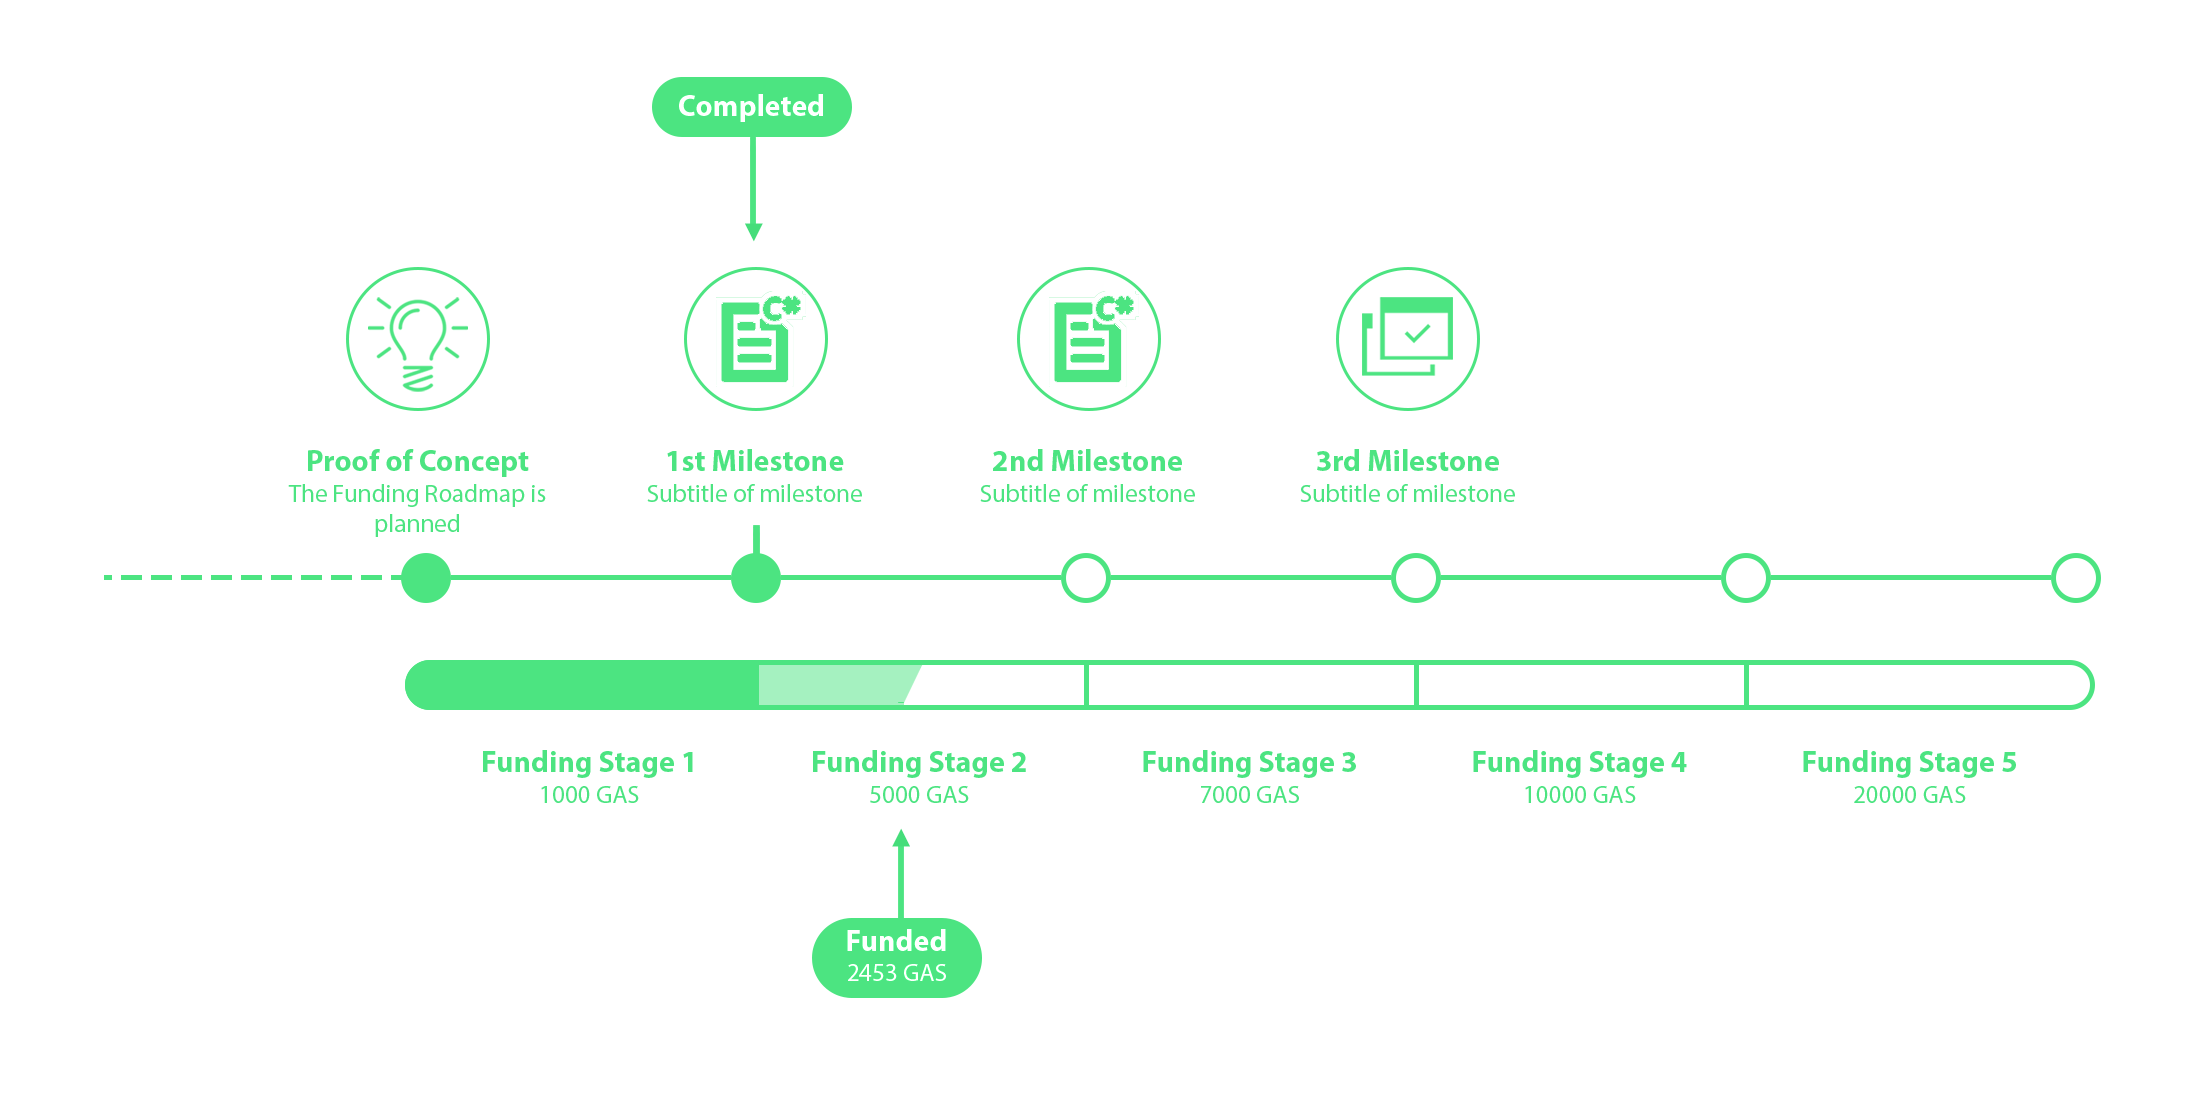
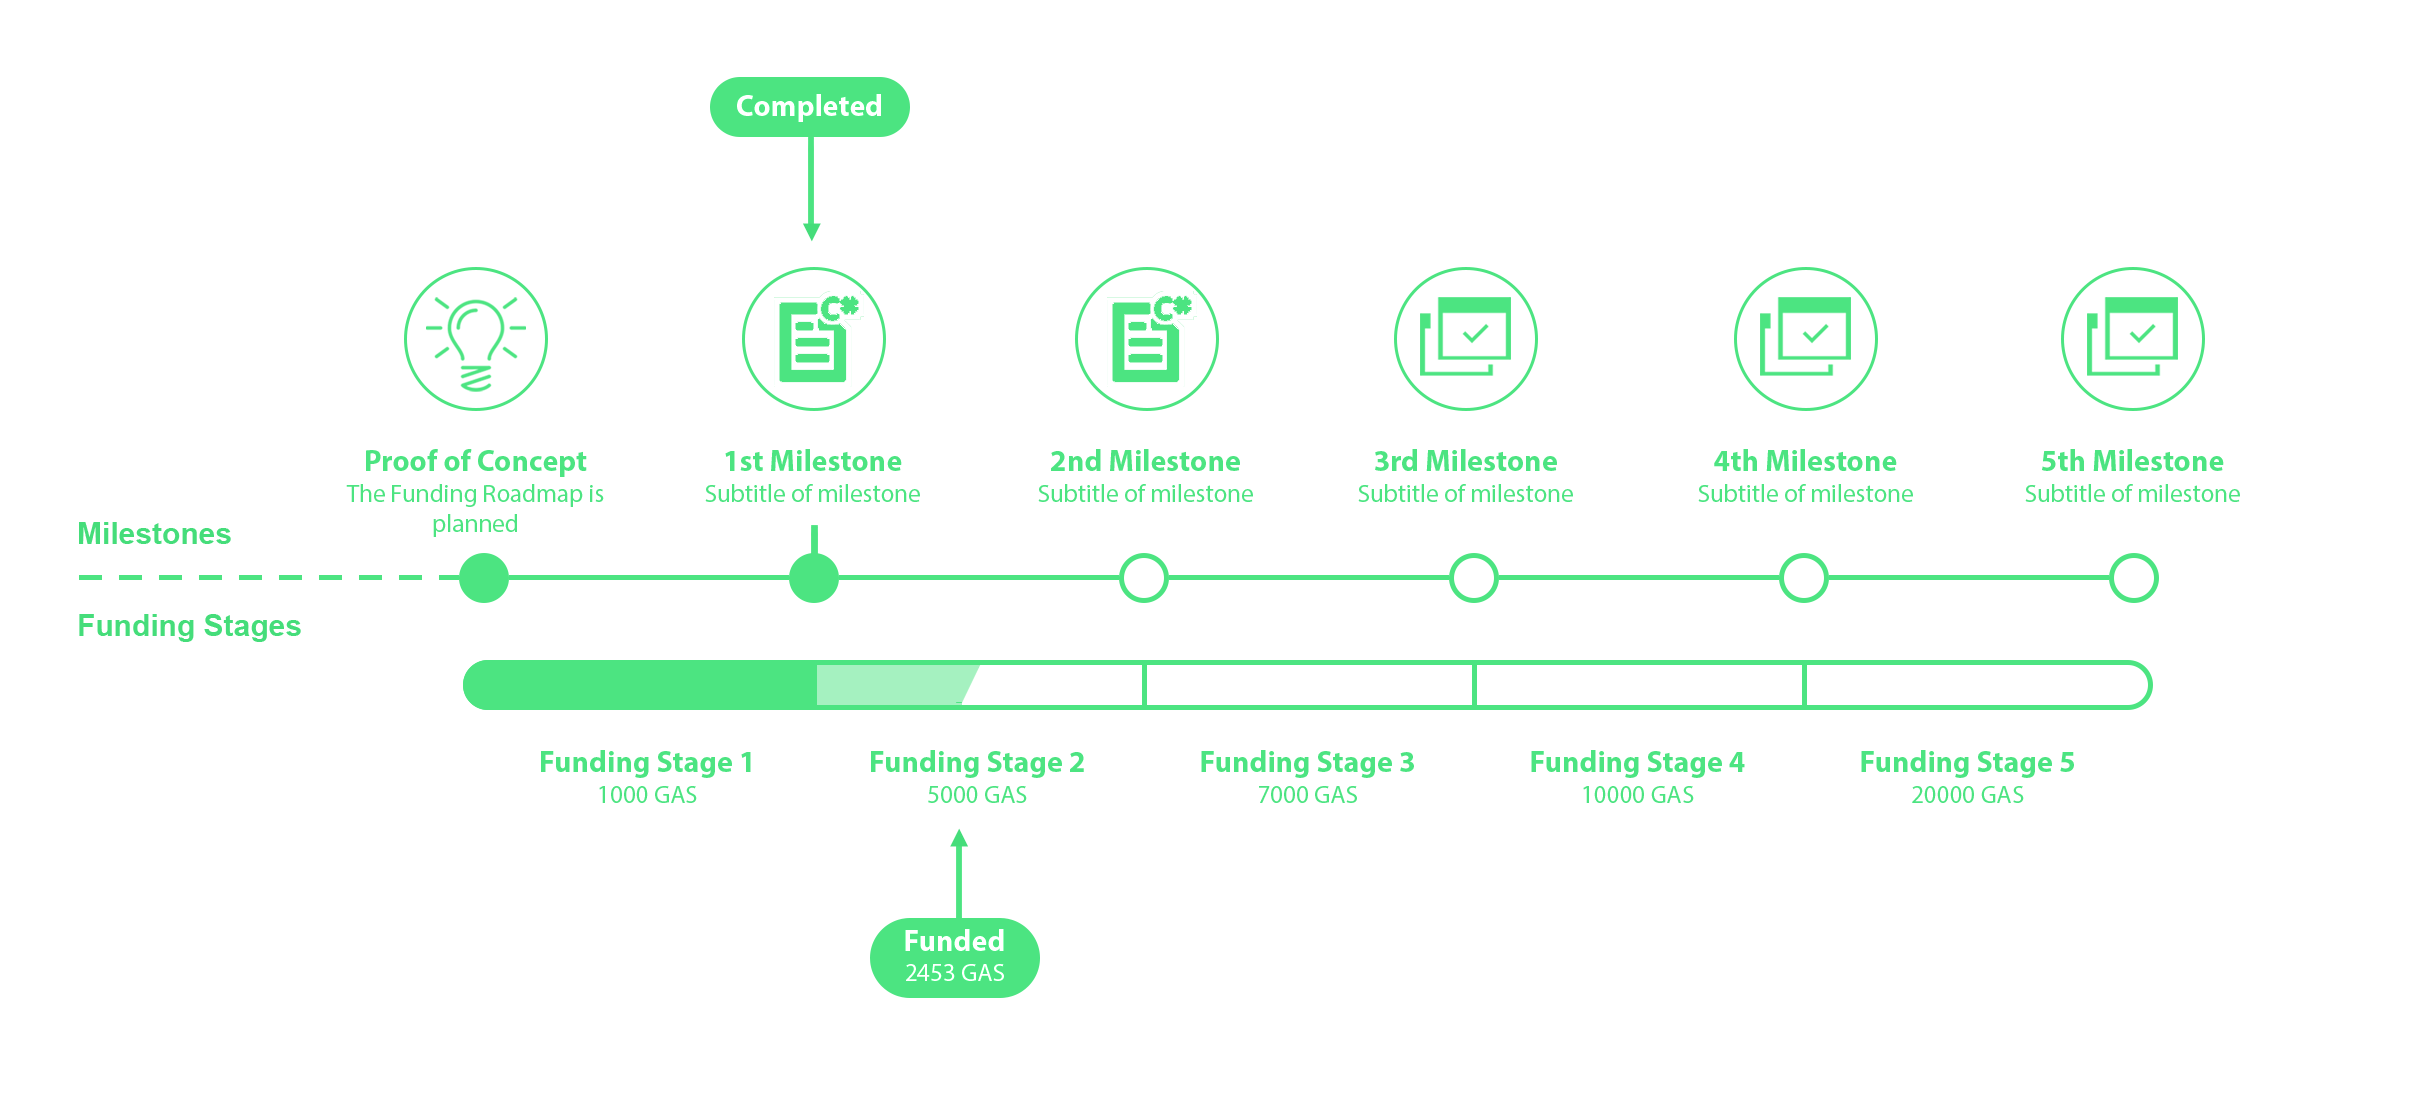
Image Updates

diff --git a/README.md b/README.md
@@ -81,7 +81,6 @@ In the current ICO space, a project generally only gets one opportunity to recei
     - [3.1.2. **Milestones**](#312-milestones)
     - [3.1.3. **Funding Stages**](#313-funding-stages)
     - [3.1.4. **Funding Roadmap Forking**](#314-funding-roadmap-forking)
-    - [3.1.5. Funding Roadmap Example:](#315-funding-roadmap-example)
 - [4. KYC (Know Your Customer)](#4-kyc-know-your-customer)
 - [5. Platfrom Structure](#5-platfrom-structure)
 - [6. Account types](#6-account-types)
@@ -111,7 +110,7 @@ At the project proposal stage, project creators will pre-determine milestones an
 **Outdated image:*
 <p align="center">
   <img
-    src="milestones.png"
+    src="funding_roadmap3.png"
     width="1000"
     >
 </p>
@@ -139,7 +138,14 @@ For example, within a project, the founders have chosen to reserve a 20% shareho
 ### 3.1.2. **Milestones**
 A **Milestone** is a project goal or checkpoint that can be defined and tangibly proven as complete. The project creators determine the amount of Milestones and the activities undertaken at each point, while investors support or negate Milestone completion. In order to reach the next stage of funding, project creators give the investors from the preceding funding stage the opportunity to reject its completion. A Milestone is deemed as completed unless there is 51% rejection. In this case, the Milestone will need to be resubmitted or the Milestone Crowdfund is refunded back to its investors. This opt-in approach is designed to maintain efficient project momentum while still holding project creators accountable. 
 
-**Outdated image:*
+<p align="center">
+  <img
+    src="milestones.png"
+    style="width: 1000px;"
+    >
+</p>
+
+<!-- **Outdated image:*
 <p align="center">
    <img
     src="milestone.png"
@@ -148,7 +154,7 @@ A **Milestone** is a project goal or checkpoint that can be defined and tangibly
     src="milestone_completed.png"
     width="200"
     > 
-</p>
+</p> -->
 
 
 ### 3.1.3. **Funding Stages**
@@ -156,40 +162,40 @@ A Funding Stage within a Funding Roadmap is a crowdfund with a defined fund goal
 
 For each Funding Stage, when the funds goal is met or surpassed within the predetermined time-frame, the funding goal is a success. The predetermined Smart Token Shares will then be distributed according to investor contribution. If, however the funds goal is not met within the predetermined time-frame, the contributed investor funds will be refunded.
 
-**Outdated image:*
+<!-- **Outdated image:*
 <p align="center">
   <img
     src="progress_bar.png"
     width="800"
     >
-</p>
+</p> -->
 
 <p align="center">
   <img
-    src="fundingstage.png"
-    width="400"
+    src="funding_stages.png"
+    width="800"
     >
 </p>
 
 ### 3.1.4. **Funding Roadmap Forking**
 A Roadmap path can be split into two different directions at any stage, this is called **Forking**. This allows unrelated Milestones to be completed in parallel. The new Roadmap Fork will have its own source of funding, and is not interdependent on one another's completion for funding. Once a fork is completed, it will continue along the Funding Roadmap.
 
-**Outdated image:*
+<!-- **Outdated image:*
 <p align="center">
   <img
     src="forking.png"
     width="400"
     >
-</p>
+</p> -->
 
-### 3.1.5. Funding Roadmap Example:
+<!-- ### 3.1.5. Funding Roadmap Example:
 **Outdated image:*
 <p align="center">
   <img
     src="milestones.png"
     width="1000"
     >
-</p>
+</p> -->
 
 # 4. KYC (Know Your Customer)
 With a potential for an ICO token sale, a KYC approval is required for all investors and project admins involved.
